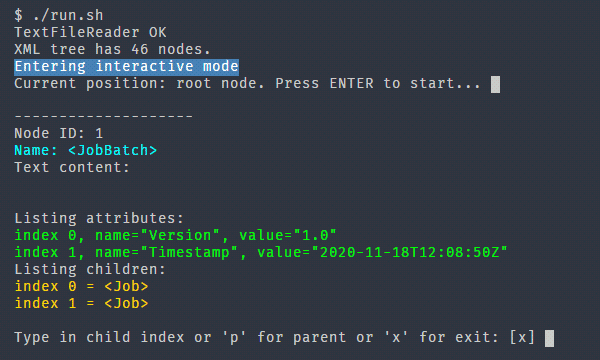
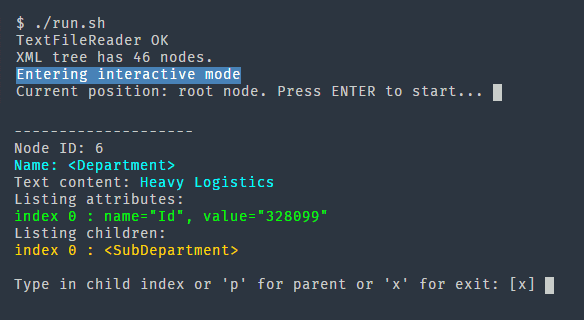
bugfix

Changed region(s): [[0.0, 0.3438, 0.9555, 0.9688], [0.0, 0.0312, 0.863, 0.3125]]

diff --git a/src/XmlNodeDetails.ts b/src/XmlNodeDetails.ts
@@ -28,7 +28,7 @@ class XmlNodeDetails
 			console.log("Listing attributes:");
 			for (let i = 0; i < node.attributes!.length; i++)
 			{
-				console.log(`%cindex ${i}, name="${node.attributes![i][0]}", value="${node.attributes![i][1]}"`, cStyleLime);
+				console.log(`%cindex ${i} : name="${node.attributes![i][0]}", value="${node.attributes![i][1]}"`, cStyleLime);
 			}
 		}
 
@@ -38,7 +38,7 @@ class XmlNodeDetails
 			console.log("Listing children:");
 			for (let i = 0; i < node.children!.length; i++)
 			{
-				console.log(`%cindex ${i} = <${node.children![i].name}>`, cStyleGold);
+				console.log(`%cindex ${i} : <${node.children![i].name}>`, cStyleGold);
 			}
 		}
 

diff --git a/src/index.ts b/src/index.ts
@@ -5,12 +5,10 @@
   * @license Apache-2.0
 */
 
-
 import { TextFileReader } from "./TextFileReader.ts";
 import { XmlReader } from "./XmlReader.ts";
 import { XmlTreeInteractive } from "./XmlTreeInteractive.ts";
 import { XmlQuery } from "./XmlQuery.ts";
-
 
 const offlineFile = "sample.xml";
 //const offlineFile = "jobs_truncated.xml";

diff --git a/src/XmlReader.ts b/src/XmlReader.ts
@@ -142,6 +142,7 @@ class XmlReader
 		}
 
 		nodeBoundary.textBefore = XmlStringMethods.RemoveCDataWrapper(nodeBoundary.textBefore);
+		nodeBoundary.textBefore = nodeBoundary.textBefore.trim();
 
 		return nodeBoundary;
 	}
